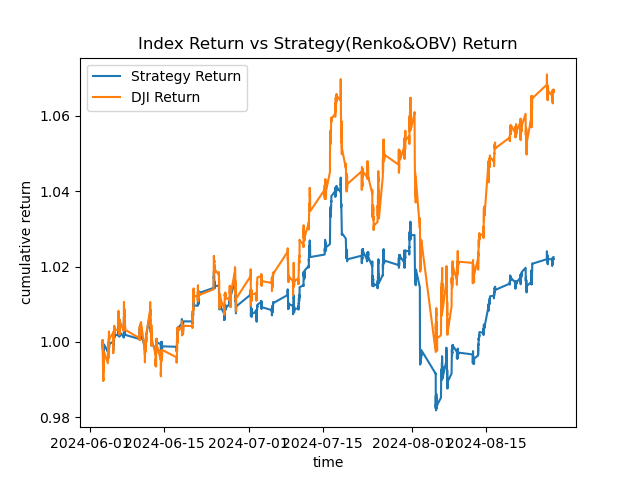
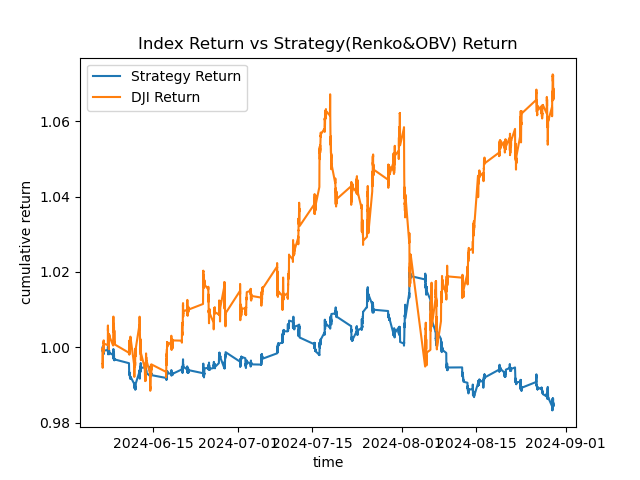
all data done

diff --git a/MACD_OBV_break_resistance.py b/MACD_OBV_break_resistance.py
@@ -1,39 +1,15 @@
 # -*- coding: utf-8 -*-
 """
-Created on Thu Aug  1 15:09:12 2024
+Spyder Editor
 
-@author: user
+This is a temporary script file.
 """
 
 import numpy as np
 import pandas as pd
 import yfinance as yf
 import statsmodels.api as sm
-from stocktrends import Renko
-import copy
 import matplotlib.pyplot as plt
-
-def renko_DF(data_frame):
-    df = data_frame.copy()
-    
-    # 重設索引並更改列名稱以匹配Renko要求
-    df.drop("Close", axis=1, inplace=True)  # 刪除不必要的列
-    df.reset_index(inplace=True)
-    df.columns = ["date", "open", "high", "low", "close", "volume"]
-    
-    # 初始化Renko圖表並設置brick_size
-    df_2 = Renko(df)
-    df_2.brick_size = max(0.5, round(ATR(data_frame, 120).iloc[-1], 0))  # 設置brick_size
-    
-    renko_df = df_2.get_ohlc_data()
-    renko_df["bar_num"] = np.where(renko_df["uptrend"] == True, 1, np.where(renko_df["uptrend"] == False, -1, 0))
-    for i in range(1, len(renko_df["bar_num"])):
-        if renko_df["bar_num"][i] > 0 and renko_df["bar_num"][i-1] > 0:
-            renko_df["bar_num"][i] += renko_df["bar_num"][i-1]
-        elif renko_df["bar_num"][i] < 0 and renko_df["bar_num"][i-1] < 0:
-            renko_df["bar_num"][i] += renko_df["bar_num"][i-1]
-    renko_df.drop_duplicates(subset="date",keep="last",inplace=True)
-    return renko_df
 
 def get_slope(seri, n):
     slopes = [i*0 for i in range(n-1)]
@@ -58,6 +34,24 @@ def get_OBV(DF):
     df['obv'] = df['vol_adj'].cumsum()
     return df['obv']
 
+def MACD(data_frame, slow_window=26, fast_window=12, signal_window=9):
+    df = data_frame.copy()
+    df["slow_ema"] = df["Adj Close"].ewm(span=slow_window, min_periods=slow_window).mean()
+    df["fast_ema"] = df["Adj Close"].ewm(span=fast_window, min_periods=fast_window).mean()
+    df["macd"] = df["fast_ema"] - df["slow_ema"]
+    df["signal"] = df["macd"].ewm(span=signal_window, min_periods=signal_window).mean()
+    df.dropna(inplace=True)
+    return df.loc[:, ["macd", "signal"]]
+
+def ATR(data_frame, window=20):
+    df = data_frame.copy()
+    df["H-L"] = df["High"] - df["Low"]
+    df["abs H-pre_close"] = abs(df["High"] - df["Adj Close"].shift(1))
+    df["abs L-pre_close"] = abs(df["Low"] - df["Adj Close"].shift(1))
+    df["TR"] = df[["H-L", "abs H-pre_close", "abs L-pre_close"]].max(axis=1, skipna=False)
+    df["ATR"] = df["TR"].ewm(span=window, min_periods=window).mean()
+    return df["ATR"]
+
 def get_CAGR(DF):
     df = DF.copy()  # 複製數據
     df["cum return"] = (1 + df["ret"]).cumprod()  # 計算累積收益率
@@ -69,15 +63,6 @@ def get_volatility(DF):
     df = DF.copy()  # 複製數據
     vol = df["ret"].std() * np.sqrt(252*75)  # 計算年度波動率
     return vol
-
-def ATR(data_frame, window=20):
-    df = data_frame.copy()
-    df["H-L"] = df["High"] - df["Low"]
-    df["abs H-pre_close"] = abs(df["High"] - df["Adj Close"].shift(1))
-    df["abs L-pre_close"] = abs(df["Low"] - df["Adj Close"].shift(1))
-    df["TR"] = df[["H-L", "abs H-pre_close", "abs L-pre_close"]].max(axis=1, skipna=False)
-    df["ATR"] = df["TR"].ewm(span=window, min_periods=window).mean()
-    return df["ATR"]
 
 def get_sharpe(DF, rf):
     df = DF.copy()
@@ -100,12 +85,11 @@ def get_calmar(DF):
 def get_risk_free_rate():
     # 使用 'TNX' 獲取 10 年期美國國債收益率 (數據來自雅虎財經)
     ticker = "^TNX"
-    data = yf.download(ticker, period="60d", interval="5m")
+    data = yf.download(ticker, period="1d")
     
     # 將收益率從百分比轉換為小數形式
     risk_free_rate = data['Close'].iloc[-1] / 100
     return risk_free_rate
-
 
 stocks = [
     "MMM",  # 3M
@@ -140,6 +124,7 @@ stocks = [
     "TRV",  # Travelers
     "CRM",  # Salesforce.com
 ]
+
 ohlc_data = {}
 
 for ticker in stocks:
@@ -148,63 +133,97 @@ for ticker in stocks:
     ohlc_data[ticker] = temp
 
 stocks = ohlc_data.keys()
-
-ohlc_renko = {}
-ohlc_df = copy.deepcopy(ohlc_data)
+ohlc_df = ohlc_data.copy()
 signal = {}
 ret = {}
-
 for ticker in stocks:
-    renko = renko_DF(ohlc_df[ticker])
-    renko.columns = ["Datetime","open","high","low","close","uptrend","bar_num"]
-    ohlc_renko[ticker] = ohlc_df[ticker].merge(renko.loc[:,["Datetime","bar_num"]],how="outer",on="Datetime")
-    ohlc_renko[ticker]["bar_num"].fillna(method='ffill',inplace=True)
-    ohlc_renko[ticker]["obv"]= get_OBV(ohlc_renko[ticker])
-    ohlc_renko[ticker]["obv_slope"]= get_slope(ohlc_renko[ticker]["obv"], 5)
+    ohlc_df[ticker]["rollin_max"] = ohlc_df[ticker]["High"].rolling(20).max()
+    ohlc_df[ticker]["rollin_min"] = ohlc_df[ticker]["Low"].rolling(20).min()
+    ohlc_df[ticker]["ATR"] = ATR(ohlc_df[ticker])
+    ohlc_df[ticker].dropna(inplace=True)
+    ohlc_df[ticker][["MACD", "Signal"]] = MACD(ohlc_df[ticker])
+    ohlc_df[ticker]["obv"]= get_OBV(ohlc_df[ticker])
+    ohlc_df[ticker]["obv_slope"]= get_slope(ohlc_df[ticker]["obv"], 5)
     signal[ticker] = ""
-    ret[ticker] = [0]
-
+    ret[ticker] = []    
+    
 for ticker in stocks:
-    for i in range(1, len(ohlc_data[ticker])):
+    for i in range(len(ohlc_df[ticker])):
         if signal[ticker] == "":
             ret[ticker].append(0)
-            if ohlc_renko[ticker]["bar_num"][i] >= 2 and ohlc_renko[ticker]["obv_slope"][i] > 30:
+            if ohlc_df[ticker]["High"][i] >= ohlc_df[ticker]["rollin_max"][i] and \
+            ohlc_df[ticker]["MACD"][i] > ohlc_df[ticker]["Signal"][i] and \
+            ohlc_df[ticker]["obv_slope"][i] > 30:
                 signal[ticker] = "buy"
-            elif ohlc_renko[ticker]["bar_num"][i] <= -2 and ohlc_renko[ticker]["obv_slope"][i] <- 30:
+            elif ohlc_df[ticker]["Low"][i] <= ohlc_df[ticker]["rollin_min"][i] and \
+            ohlc_df[ticker]["MACD"][i] < ohlc_df[ticker]["Signal"][i] and\
+            ohlc_df[ticker]["obv_slope"][i] <- 30:
                 signal[ticker] = "sell"
         elif signal[ticker] == "buy":
-            ret[ticker].append((ohlc_renko[ticker]["Adj Close"][i]/ohlc_renko[ticker]["Adj Close"][i-1])-1)
-            if ohlc_renko[ticker]["bar_num"][i] < 2:
+            if ohlc_df[ticker]["Low"][i] < ohlc_df[ticker]["Close"][i-1] - ohlc_df[ticker]["ATR"][i-1] and\
+            ohlc_df[ticker]["MACD"][i] < ohlc_df[ticker]["Signal"][i]:
                 signal[ticker] = ""
-            elif ohlc_renko[ticker]["bar_num"][i] <= -2 and ohlc_renko[ticker]["obv_slope"][i] <- 30:
+                ret[ticker].append((ohlc_df[ticker]["Close"][i-1] - ohlc_df[ticker]["ATR"][i-1])/(ohlc_df[ticker]["Close"][i-1])-1)
+            elif ohlc_df[ticker]["Low"][i] <= ohlc_df[ticker]["rollin_min"][i] and \
+            ohlc_df[ticker]["MACD"][i] < ohlc_df[ticker]["Signal"][i] and\
+            ohlc_df[ticker]["obv_slope"][i] <- 30:
                 signal[ticker] = "sell"
+                ret[ticker].append((ohlc_df[ticker]["Close"][i]/ohlc_df[ticker]["Close"][i-1]) - 1)
+            else:
+                ret[ticker].append((ohlc_df[ticker]["Close"][i]/ohlc_df[ticker]["Close"][i-1]) - 1)
         elif signal[ticker] == "sell":
-            ret[ticker].append(1-(ohlc_renko[ticker]["Adj Close"][i]/ohlc_renko[ticker]["Adj Close"][i-1]))
-            if ohlc_renko[ticker]["bar_num"][i] > -2:
+            if ohlc_df[ticker]["High"][i] > ohlc_df[ticker]["Close"][i-1] + ohlc_df[ticker]["ATR"][i-1] and\
+                ohlc_df[ticker]["MACD"][i] < ohlc_df[ticker]["Signal"][i]:
                 signal[ticker] = ""
-            elif ohlc_renko[ticker]["bar_num"][i] >= 2 and ohlc_renko[ticker]["obv_slope"][i] > 30:
+                ret[ticker].append((ohlc_df[ticker]["Close"][i-1] + ohlc_df[ticker]["ATR"][i-1])/(ohlc_df[ticker]["Close"][i-1])-1)
+            elif ohlc_df[ticker]["High"][i] >= ohlc_df[ticker]["rollin_max"][i] and \
+            ohlc_df[ticker]["MACD"][i] > ohlc_df[ticker]["Signal"][i] and \
+            ohlc_df[ticker]["obv_slope"][i] > 30:
                 signal[ticker] = "buy"
-    ohlc_renko[ticker]["ret"] = np.array(ret[ticker])
+                ret[ticker].append((ohlc_df[ticker]["Close"][i]/ohlc_df[ticker]["Close"][i-1]) - 1)
+            else:
+                ret[ticker].append((ohlc_df[ticker]["Close"][i]/ohlc_df[ticker]["Close"][i-1]) - 1)
 
+    ohlc_df[ticker]["ret"] = np.array(ret[ticker])    
+    
 rf = get_risk_free_rate()  # 設定無風險收益率
 strategy_ret = pd.DataFrame()
 for ticker in stocks:
-    strategy_ret[ticker] = ohlc_renko[ticker]["ret"]
+    strategy_ret[ticker] = ohlc_df[ticker]["ret"]
 strategy_ret["ret"] = strategy_ret.mean(axis=1)
-strategy_ret["Datetime"] = ohlc_renko["AXP"]["Datetime"]
-strategy_ret.set_index(["Datetime"], inplace=True)
 cagr = get_CAGR(strategy_ret)
 sharpe_ratio = get_sharpe(strategy_ret, rf)
 CR = get_calmar(strategy_ret) 
 
 DJI = yf.download("^DJI", period="60d", interval="5m")  # 下載道瓊指數數據
-DJI["ret"] = DJI["Adj Close"].pct_change()
+DJI["ret"] = DJI["Adj Close"].pct_change() 
 
 fig, ax = plt.subplots()  # 創建圖表
 plt.plot((1+strategy_ret["ret"]).cumprod())  # 繪製投資組合的累積收益率
 plt.plot((1+DJI["ret"]).cumprod())  # 繪製道瓊指數的累積收益率
-plt.title("Index Return vs Strategy(Renko&OBV) Return")  # 設置圖表標題
+plt.title("Index Return vs Strategy(Resistance breakout) Return")  # 設置圖表標題
 plt.ylabel("cumulative return")  # 設置Y軸標籤
 plt.xlabel("time")  # 設置X軸標籤
 ax.legend(["Strategy Return","DJI Return"])
-plt.savefig('RenkoOBV.png')    
+plt.savefig('Break_resistance.png')
+
+print(cagr)
+print(sharpe_ratio)
+print(CR)
+print(rf)
+
+print()
+print(get_CAGR(DJI))
+print(get_sharpe(DJI, rf))
+print(get_calmar(DJI))    
+    
+    
+    
+    
+    
+    
+    
+    
+    
+    
+    

diff --git a/renko&MACD/renko&MACD.py b/renko&MACD/renko&MACD.py
@@ -138,7 +138,6 @@ stocks = [
     "WMT",  # Walmart
     "DIS",  # Walt Disney
     "TRV",  # Travelers
-    "CRM",  # Salesforce.com
 ]
 
 ohlc_data = {}
@@ -148,7 +147,7 @@ for ticker in stocks:
     temp.dropna(how="any", inplace=True)
     ohlc_data[ticker] = temp
 
-pairs = ohlc_data.keys()
+stocks = ohlc_data.keys()
 
 ohlc_renko = {}
 ohlc_df = copy.deepcopy(ohlc_data)
@@ -184,7 +183,7 @@ for ticker in stocks:
                 ohlc_renko[ticker]["MACD"][i] < ohlc_renko[ticker]["Signal"][i]:
                 signal[ticker] = "sell"
         elif signal[ticker] == "sell":
-            ret[ticker].append((ohlc_renko[ticker]["Adj Close"][i-1]/ohlc_renko[ticker]["Adj Close"][i])-1)
+            ret[ticker].append(1-(ohlc_renko[ticker]["Adj Close"][i]/ohlc_renko[ticker]["Adj Close"][i-1]))
             if ohlc_renko[ticker]["MACD_m"][i] > ohlc_renko[ticker]["Signal_m"][i]:
                 signal[ticker] = ""
             elif ohlc_renko[ticker]["bar_num"][i] >= 2 and \
@@ -213,3 +212,4 @@ plt.title("Index Return vs Strategy(Renko%MACD) Return")  # 設置圖表標題
 plt.ylabel("cumulative return")  # 設置Y軸標籤
 plt.xlabel("time")  # 設置X軸標籤
 ax.legend(["Strategy Return","DJI Return"])
+plt.savefig('RenkoMACD.png')

diff --git a/portfolios_rebalancing/portfolios_rebalancing.py b/portfolios_rebalancing/portfolios_rebalancing.py
@@ -145,8 +145,8 @@ print(get_calmar(DJI))
 fig, ax = plt.subplots()  # 創建圖表
 plt.plot((1+portfolio_rebalancing(return_df, pos_num, x)).cumprod())  # 繪製投資組合的累積收益率
 plt.plot((1+DJI["mon_return"].reset_index(drop=True)).cumprod())  # 繪製道瓊指數的累積收益率
-plt.title("Index Return vs Strategy Return")  # 設置圖表標題
+plt.title("Index Return vs Strategy Return(Portfolios Rebalancing)")  # 設置圖表標題
 plt.ylabel("cumulative return")  # 設置Y軸標籤
 plt.xlabel("months")  # 設置X軸標籤
 ax.legend(["Strategy Return","Index Return"])  # 添加圖例
-            
+plt.savefig('portfolios_rebalancing.png')
